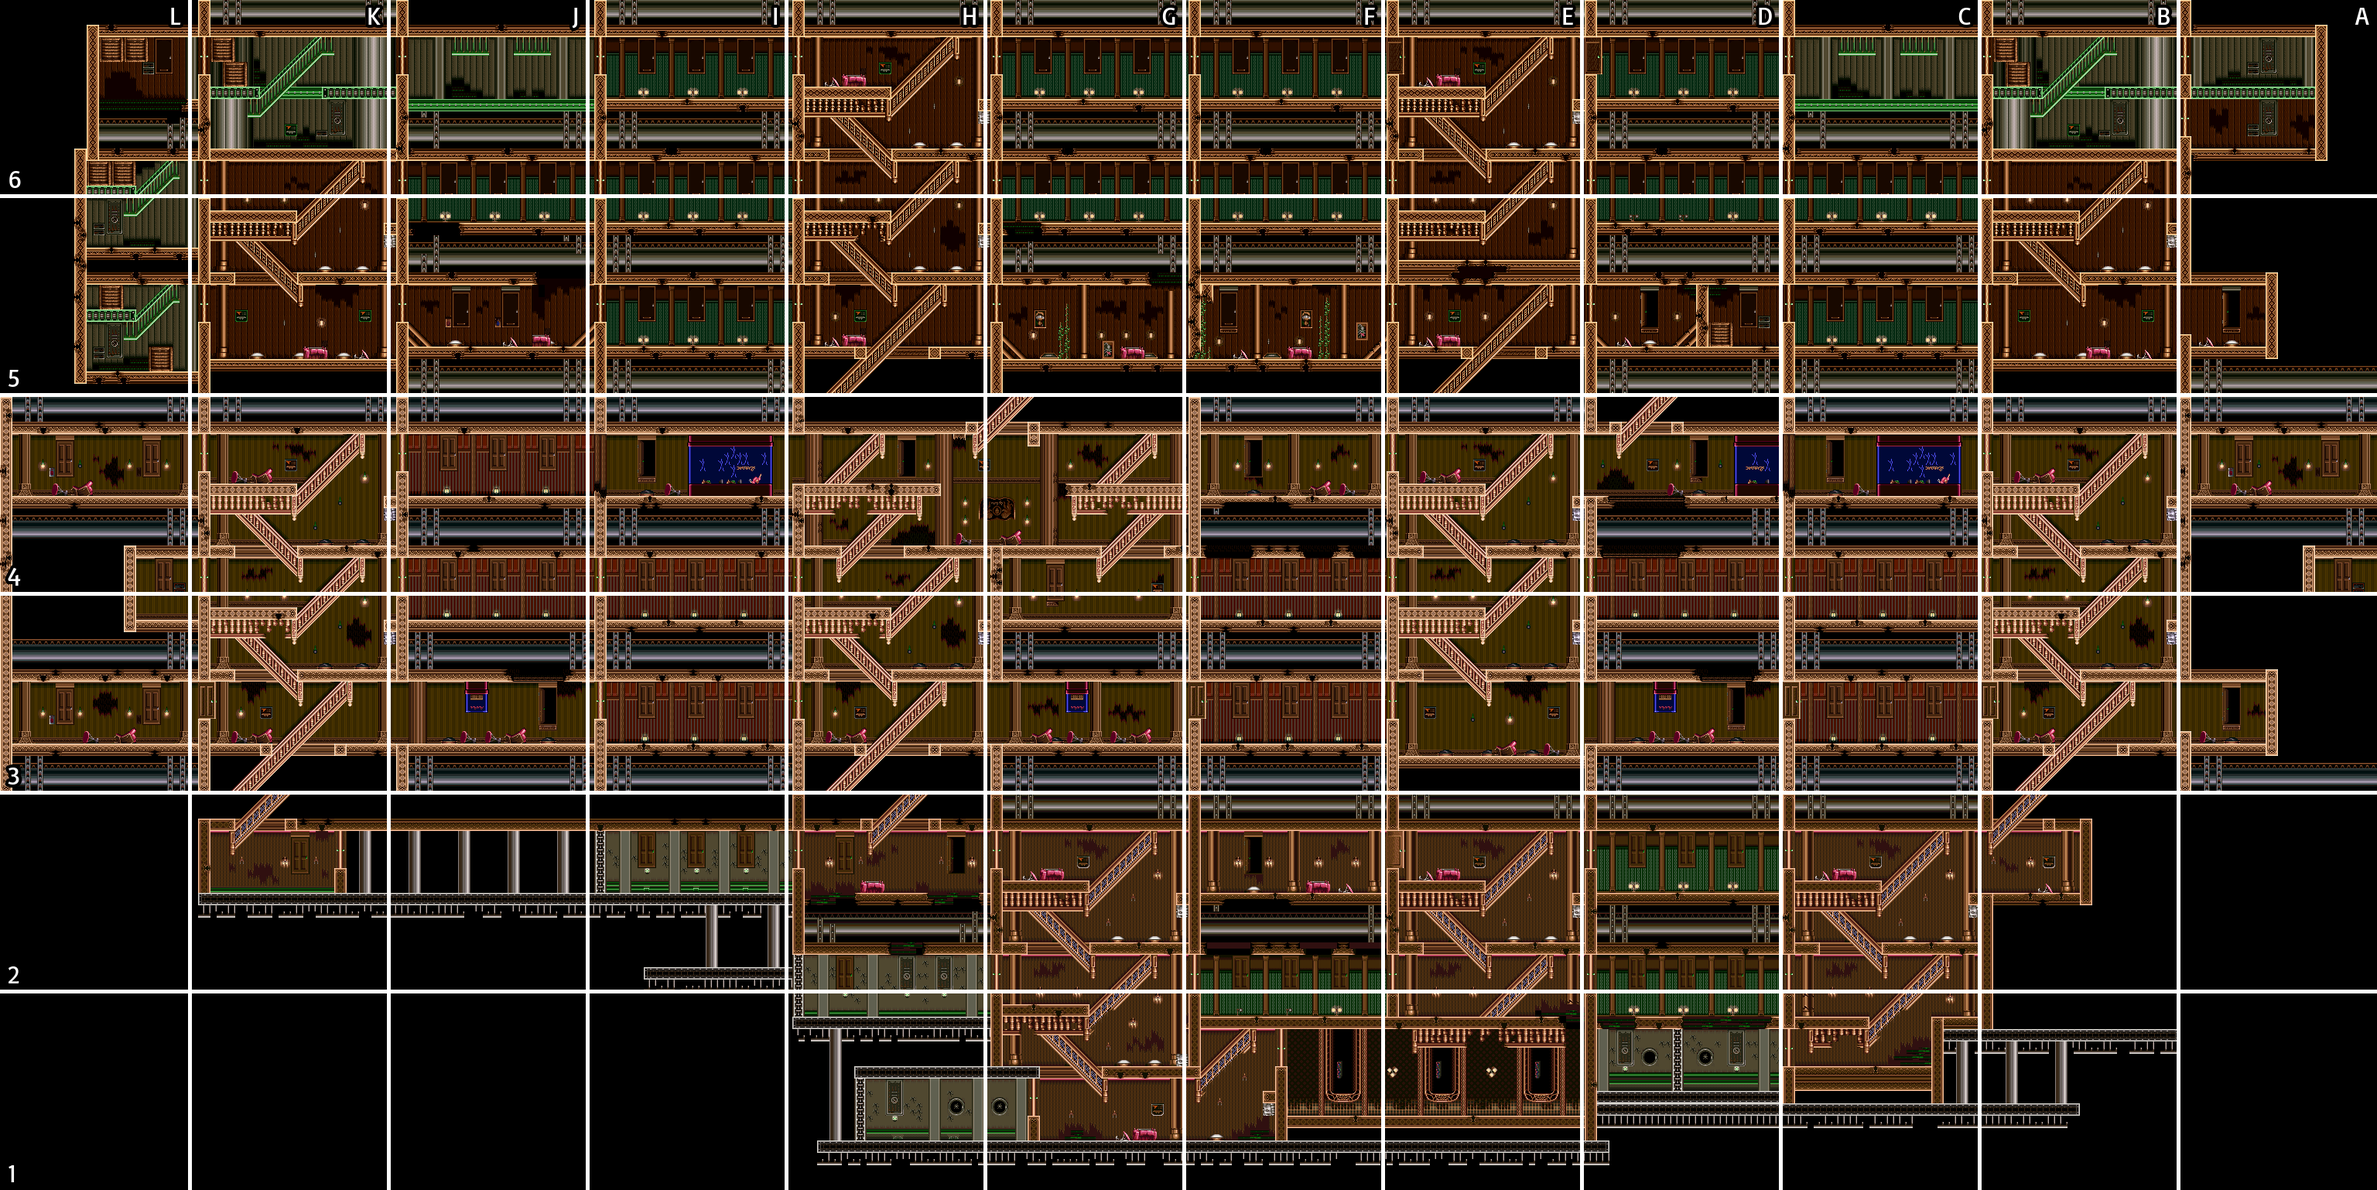
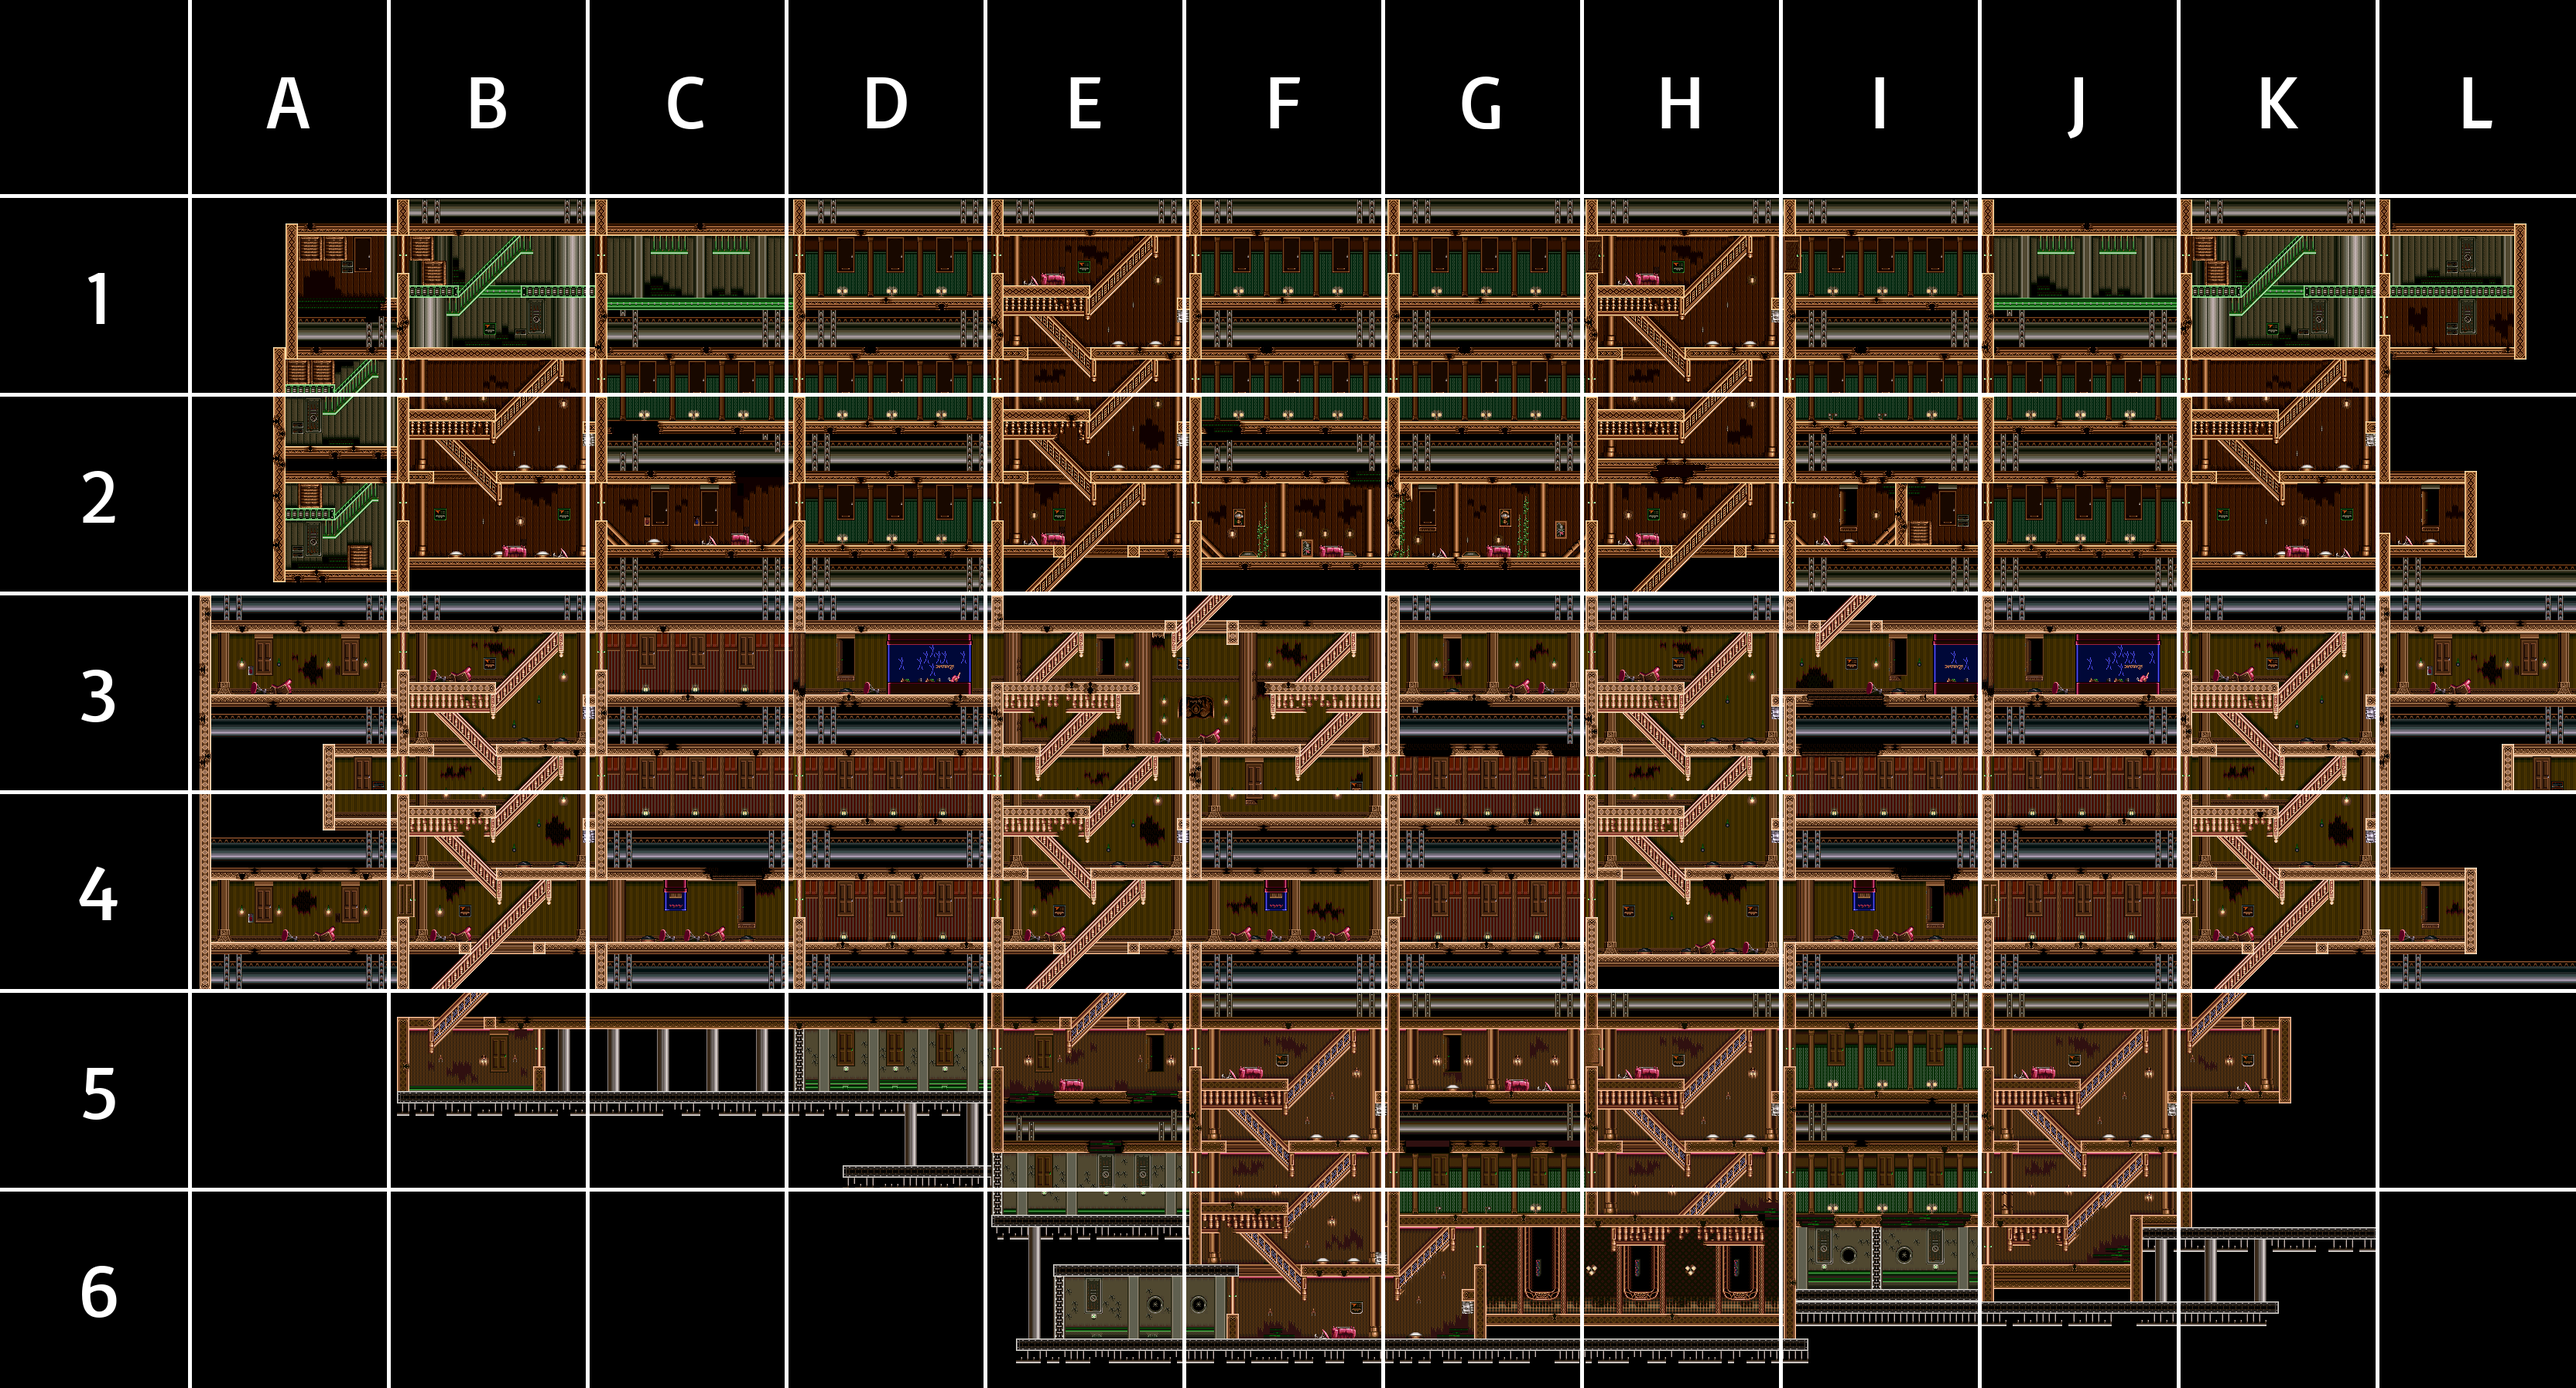
g1144: Updates to map and guide

diff --git a/Guides/SOS/images/makegrid.py b/Guides/SOS/images/makegrid.py
@@ -7,44 +7,53 @@ MAINCOLOR = (255, 255, 255, 255) # (255, 0, 255, 255)
 SPACING = 171 * 3 // 2 + 1
 fsettings = {
 	'fill': MAINCOLOR,
-	'font': ImageFont.truetype("Basic-Regular.ttf", 32),
-	'stroke_width': 4, 
+	'font': ImageFont.truetype("Basic-Regular.ttf", 100),
+	'stroke_width': 12, 
 	'stroke_fill': 'black',
 }
 
 img1 = Image.open('crithania-upright.png')
-result1 = Image.new('RGBA', (img1.width, img1.height))
-result1.paste(im=img1, box=(0, 0))
+bg = img1.crop((0, 0, SPACING, SPACING))
+result1 = Image.new('RGBA', (img1.width + SPACING, img1.height + SPACING))
+result1.paste(im=img1, box=(SPACING, SPACING))
+y = 0
+while y < result1.height:
+	result1.paste(im=bg, box=(0, y))
+	y += SPACING
+x = 0
+while x < result1.width:
+	result1.paste(im=bg, box=(x, 0))
+	x += SPACING
+
 drawing1 = ImageDraw.Draw(result1)
 
 img2 = Image.open('crithania-capsized.png')
-result2 = Image.new('RGBA', (img2.width, img2.height))
-result2.paste(im=img2, box=(0, 0))
+result2 = Image.new('RGBA', (img2.width + SPACING, img2.height + SPACING))
+result2.paste(im=img2, box=(SPACING, SPACING))
 drawing2 = ImageDraw.Draw(result2)
+drawing2.rectangle((0, 0, SPACING, result2.height), fill='black')
+drawing2.rectangle((0, 0, result2.width, SPACING), fill='black')
 
+m = SPACING // 2
 y = SPACING
 i = 1
-while y < img1.height:
-	drawing1.line([(0, y), (img1.width, y)], fill=MAINCOLOR, width=5)
-	drawing1.text((10, y - 10), str(i), anchor="ls", **fsettings)
-	drawing2.line([(0, img1.height-y), (img2.width, img1.height-y)], fill=MAINCOLOR, width=5)
-	drawing2.text((10, img1.height-y - 10), str(i+1), anchor="ls", **fsettings)
+while y < result1.height:
+	drawing1.line([(0, y), (result1.width, y)], fill=MAINCOLOR, width=5)
+	drawing1.text((m, y + m), str(7-i), anchor="mm", **fsettings)
+	drawing2.line([(0, result2.height-y), (result2.width, result2.height-y)], fill=MAINCOLOR, width=5)
+	drawing2.text((m, result2.height-y + m), str(7-i), anchor="mm", **fsettings)
 	y += SPACING
 	i += 1
-drawing1.text((10, img1.height - 10), str(i), anchor="ls", **fsettings)
-drawing2.text((10, img1.height - 10), str(1), anchor="ls", **fsettings)
 
 x = SPACING
 i = 0
-while x < img1.width:
-	drawing1.line([(x, 0), (x, img1.height)], fill=MAINCOLOR, width=5)
-	drawing1.text((x - 10, 10), LETTERS[i], anchor="rt", **fsettings)
-	drawing2.line([(img1.width-x, 0), (img1.width-x, img2.height)], fill=MAINCOLOR, width=5)
-	drawing2.text((img1.width-x - 10, 10), LETTERS[i+1], anchor="rt", **fsettings)
+while x < result1.width:
+	drawing1.line([(x, 0), (x, result1.height)], fill=MAINCOLOR, width=5)
+	drawing1.text((x + m, m), LETTERS[11-i], anchor="mm", **fsettings)
+	drawing2.line([(result2.width-x, 0), (result2.width-x, result2.height)], fill=MAINCOLOR, width=5)
+	drawing2.text((result2.width-x + m, m), LETTERS[11-i], anchor="mm", **fsettings)
 	x += SPACING
 	i += 1
-drawing1.text((img1.width - 10, 10), LETTERS[i], anchor="rt", **fsettings)
-drawing2.text((img1.width - 10, 10), LETTERS[0], anchor="rt", **fsettings)
 
 result1.save('crithania-upright-grid.png')
 result2.save('crithania-capsized-grid.png')

diff --git a/Guides/SOS/guide.md b/Guides/SOS/guide.md
@@ -134,11 +134,11 @@ Right by the room where Francoise Maxwell is found (room 28, coordinates ?? on t
 <details>
 <summary><em>[Click to expand]</em></summary>
 
-At first, it may seem like it can only be made while the ship is at an angle. However, it's actually possible to make this jump even when the ship is completely level; the grab spot just happens to be extremely precise. This below image shows the grab spot.
+At first, it may seem like this ledge can only be reached while the ship is at an angle. However, it's actually possible to make this jump even when the ship is completely level; the grab spot just happens to be extremely precise. This below image shows the grab spot.
 
 ![image of a man hanging from a railing](images/maxwell-jump.png)
 
-However, if you try simply jumping at that spot, you'll likely find that your character won't grab it, due to how ridiculously precise it is. However, there are two ways to make this jump a bit more consistent. The first is to use the couch just below the jump as a marker. Just have your character stand over what’s roughly the center of the couch, then neutral jump while holding right, and you might grab onto the ledge.
+If you try simply jumping at that spot, you'll likely find that your character won't grab it due to how ridiculously precise it is. However, there are two ways to make this jump a bit more consistent. The first is to use the couch just below the jump as a marker. Just have your character stand over what’s roughly the center of the couch, then neutral jump while holding right, and you might grab onto the ledge.
 
 ![video of a strategy for achieving a difficult jump](videos/maxwell-jump-2.webm)
 
@@ -157,7 +157,7 @@ As shown in the following screenshot, when the ship is completely level, even at
 
 ![image of a man jumping short of a ledge](images/strisers-jump.png)
 
-This means that in order to make this jump, you need to wait for the ship's angle to change first. However, due to this being a room with a survivor in it, there's one caveat: you'll need to wait outside in order for the ship to rotate, because the game generally tries to maintain the ship's current angle while most survivor cutscenes are playing out (and on many routes, you may not want or be able to save Miller Strisers). Step outside of the room and wait for the angle to change, then return. Either a left or right angle will work.
+This means that in order to make this jump, you need to wait for the ship's angle to change first. However, due to this being a room with a survivor in it, there's one caveat: you'll need to wait outside in order for the ship to rotate, because the game tries to maintain the ship's current angle while most survivor cutscenes are playing out (and on many routes, you may not want or be able to save Miller Strisers). Step outside of the room and wait for the angle to change, then return. Either a left or right angle will work.
 
 **When the ship is angled left**, the jump is pretty simple. Just jump onto the wall to the left, then you can climb or jump up to the ledge from there, as shown here in the video below.
 
@@ -360,7 +360,7 @@ Since Luke's key survivor starts where he does, his routing's more flexible. Whi
 3. Go up one level to reach room 23 on the map, where you'll rescue [Anna Tamaro](#survivor-anna) and [Frank Coney](#survivor-frank). 
  
 > [!TIP]
-> If you're unsure how to make the jump above rooms 27 and 28, refer to the section on [the jump above Francoise Maxwell's room](#above-francoise-maxwells-room)
+> If you're unsure how to make the jump above rooms 27 and 28, refer to the section on [the jump above Francoise Maxwell's room](#above-francoise-maxwells-room).
 
 4. Retrace your steps back to the lower level then go all the way to the east to rescue [Jimmy Akers](#survivor-jimmy).
 
@@ -397,12 +397,12 @@ Jeffrey has a slightly trickier route, since he begins at a location that is som
 2. Climb upwards to door 17 on the map.
  
 > [!TIP]
-> If you're unsure how to make the jump above rooms 27 and 28, refer to the section on [the jump above Francoise Maxwell's room](#above-francoise-maxwells-room)
+> If you're unsure how to make the jump above rooms 27 and 28, refer to the section on [the jump above Francoise Maxwell's room](#above-francoise-maxwells-room).
 
 3. Wait for the ship to be at a left or right angle, then enter door 17 and make your way through to door 18, where you'll return to the main part of the ship. (While this path is more roundabout than the jump above Kelly Nelson, it's far more consistent since it can be traversed at various ship angles.)
  
 > [!TIP]
-> If you're unsure how to make the jump inside door 17, refer to the section on [the top of Miller Strisers' room](#the-top-of-miller-strisers-room)
+> If you're unsure how to make the jump inside door 17, refer to the section on [the top of Miller Strisers' room](#the-top-of-miller-strisers-room).
 
 4. Make your way towards room 22 on the map to rescue [Adela Howell](#survivor-adela), Jeffrey's key survivor.
 
@@ -426,7 +426,7 @@ Jeffrey has a slightly trickier route, since he begins at a location that is som
 
 ## Survivors
 
-Survivor achievements include the following information
+Survivor achievements include the following information:
 
 - where to find them on the map
 - who can rescue them (note that some survivors can only be rescued after the event at 33:00)
@@ -866,7 +866,7 @@ _Rescue Angelica Snow_
 |Survivor points|4|
 |Stamina|mid (117)|
 
-On some routes, rescueing her might involve using Y to interact during the conversation.
+On some routes, rescuing her might involve using Y to interact during the conversation.
 
 She'll usually only join with Katherine Clayton after you've successfully convinced the latter to join, but Capris has the alternate option of convincing Angelica to join alone if you ignore Katherine and keep talking to Angelica.
 
@@ -922,7 +922,7 @@ _Rescue Katherine Meibrus_
 |Survivor points|6|
 |Stamina|mid (117)|
 
-If you are playing as Luke, Katherine will only join your group if you bring Michael Burnings
+If you are playing as Luke, Katherine will only join your group if you bring Michael Burnings.
 
 <a name="survivor-francoise"></a>
 <img align="left" width="72" height="72" src="https://media.retroachievements.org/Badge/40682.png">
@@ -976,7 +976,7 @@ _Rescue Henry Abrahams_
 |Survivor points|2|
 |Stamina|high (160)|
 
-Appears with Chief Engineer Ussar when you have between three and six survivors in your party. For more information on how to deal with Ussar and potentially rescue Henry, look at the achievement ["Don't Believe His Lies"](#ach-ussar)
+Appears with Chief Engineer Ussar when you have between three and six survivors in your party. For more information on how to deal with Ussar and potentially rescue Henry, look at the achievement ["Don't Believe His Lies"](#ach-ussar).
 
 ## Endings
 
@@ -1102,6 +1102,9 @@ _Find the map of the ship (not with Luke)_
 </pre></big>
 
 The map is found by interacting with a lady in room #18 (coordinates ##) on the map. This room is next to Capris' starting location, so you can grab this achievement within seconds with him. You can search her body after the capsize with any character to get a map if you haven't gotten it before.
+
+> [!NOTE]
+> The reason you can't get this achievement with Luke is because he starts with a map.
     
 <img align="left" width="72" height="72" src="https://media.retroachievements.org/Badge/40727.png">
 
